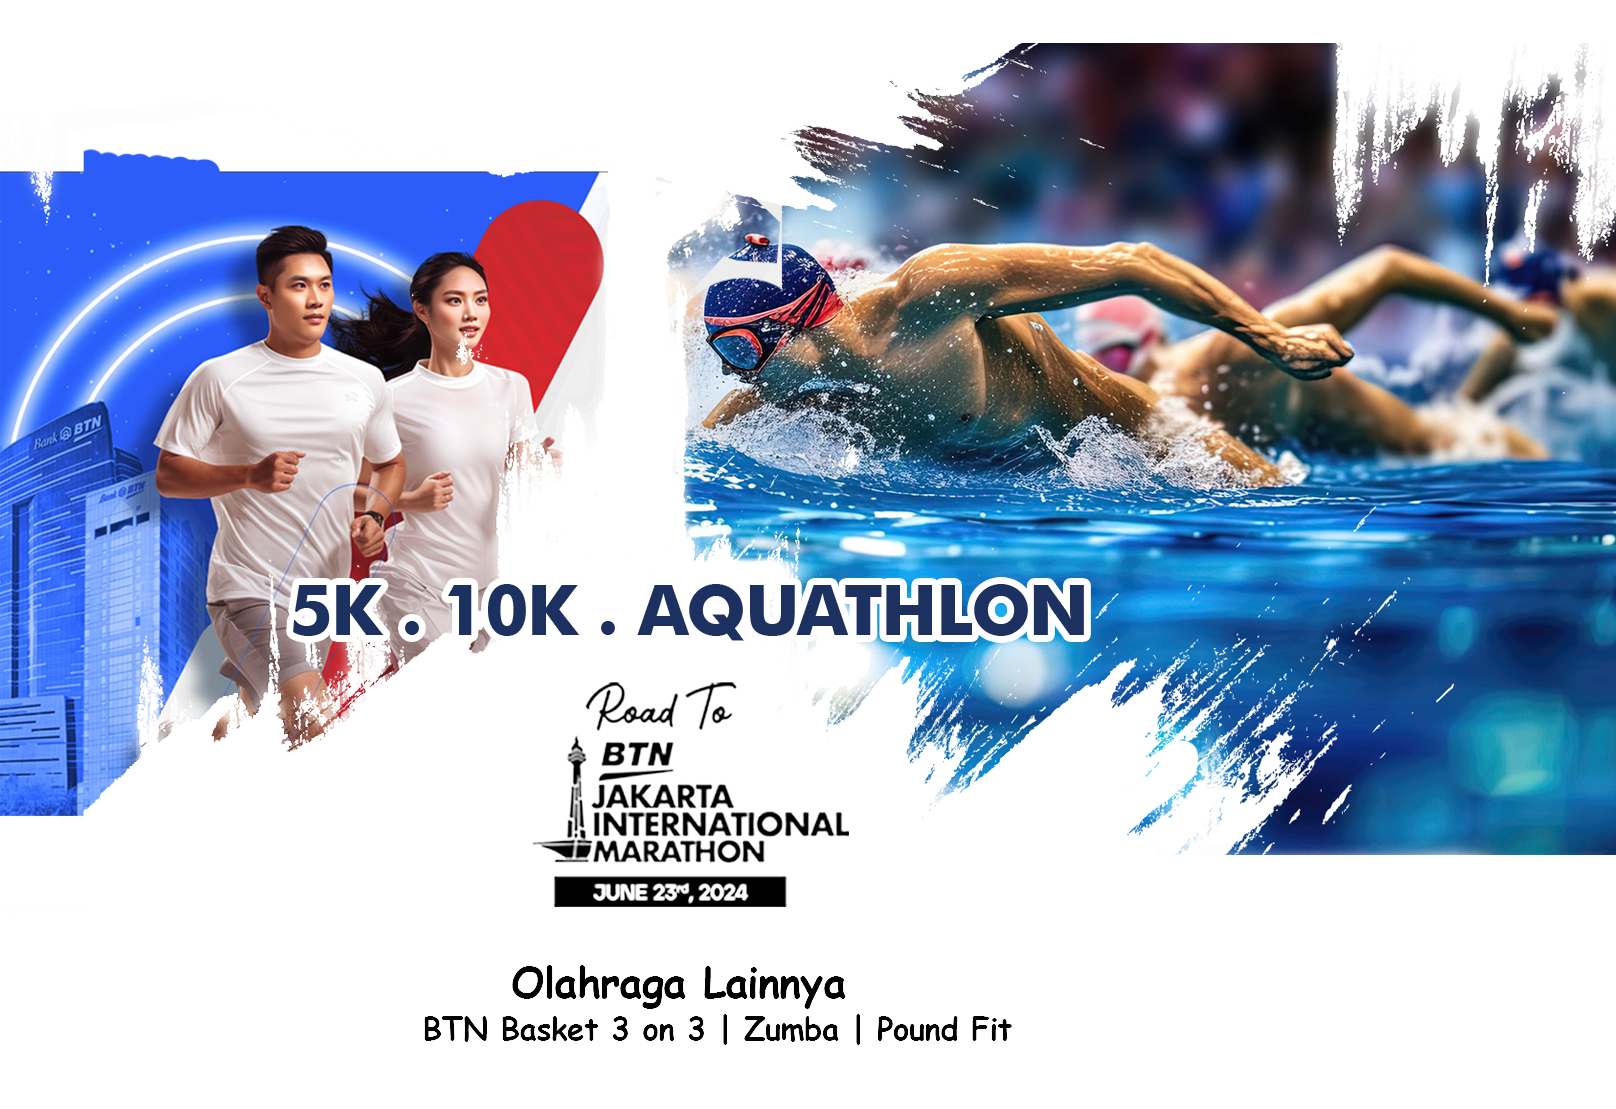
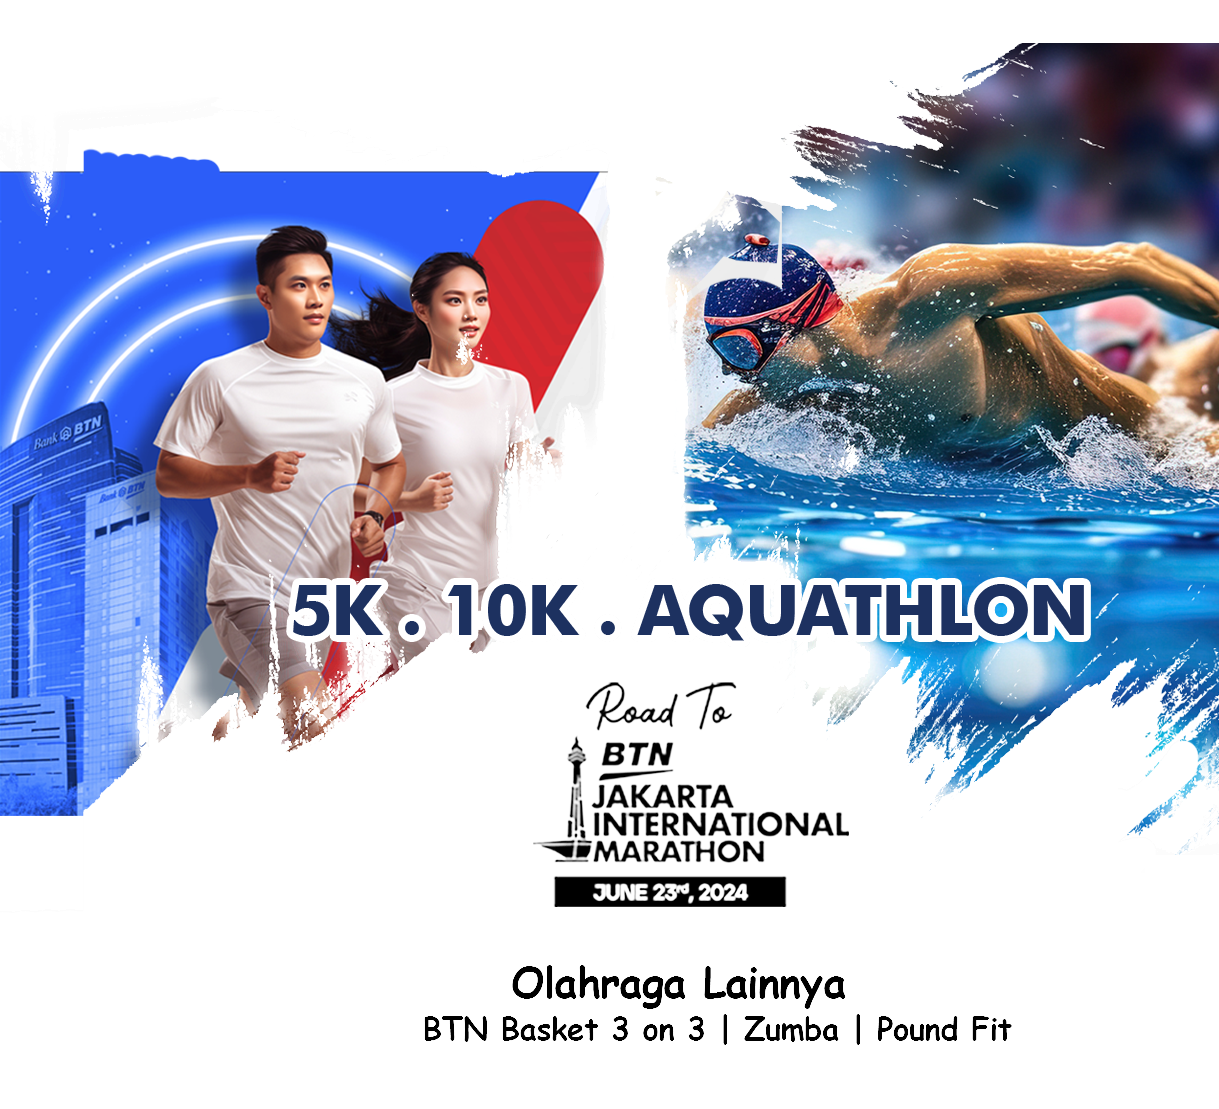
[ UPDATE ]

diff --git a/index.css b/index.css
@@ -5,7 +5,7 @@ body{
     height: 100%;
 }
 .container{
-    width: 90% !important;
+    width: 100% !important;
     margin: 0 auto !important;
 }
 img{
